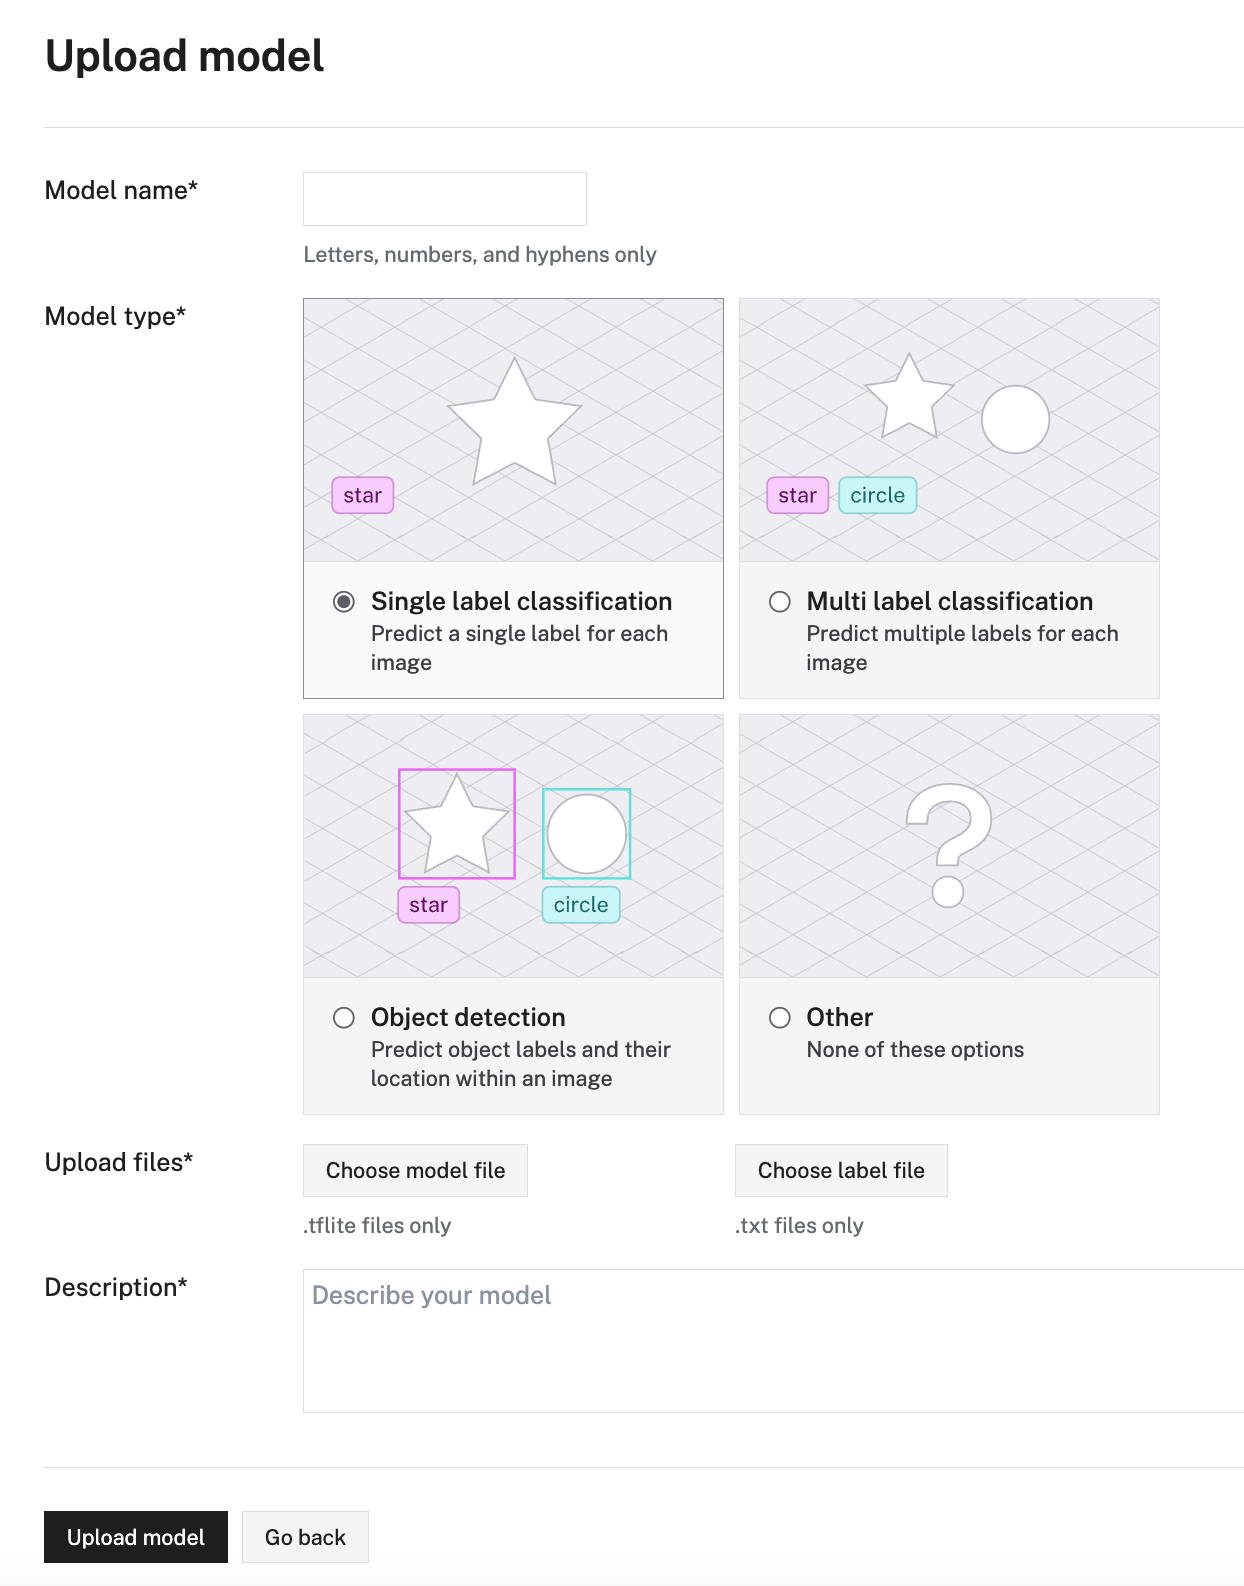
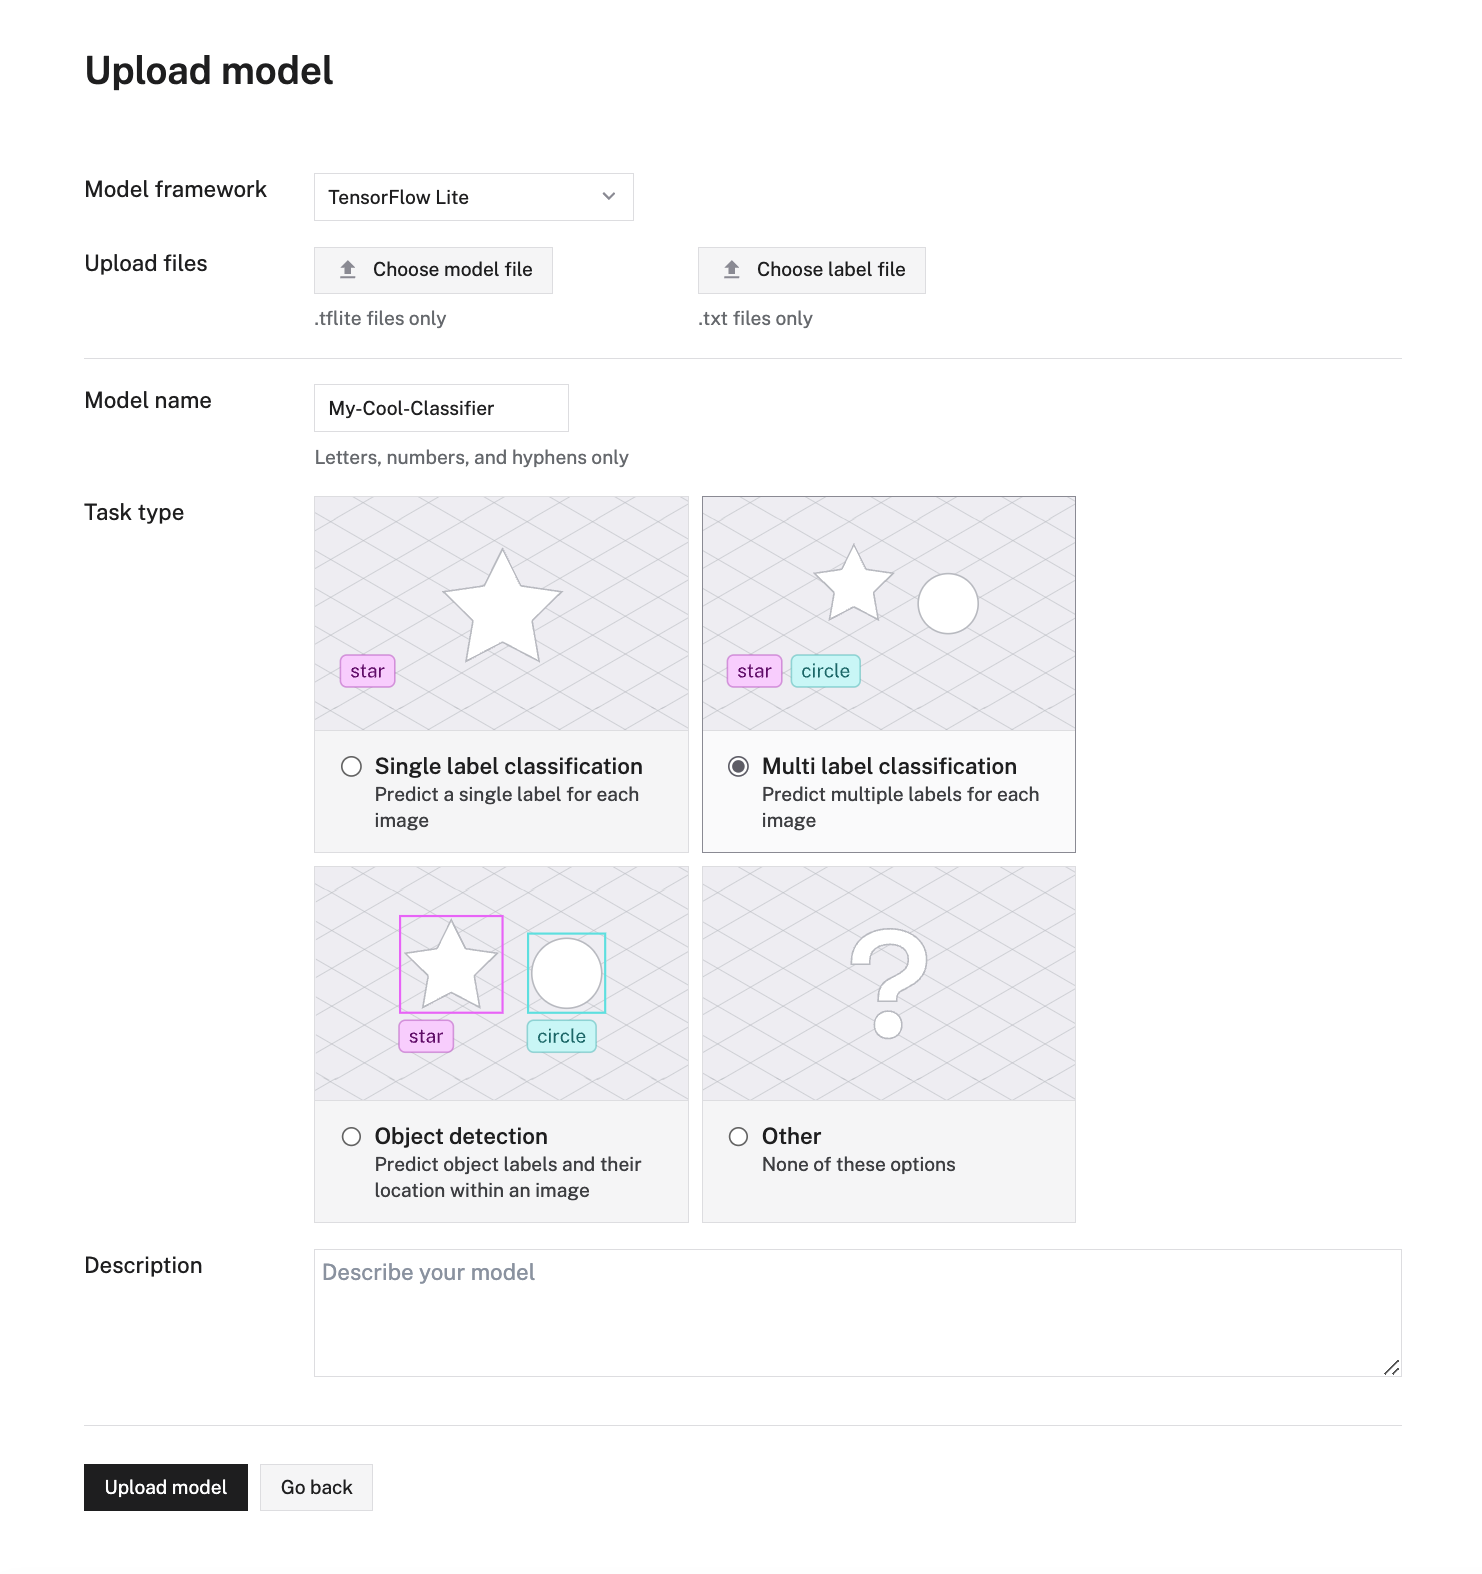
Edit upload page for model framework ui update

diff --git a/docs/ml/upload-model.md b/docs/ml/upload-model.md
@@ -41,11 +41,10 @@ Select **Next steps** to continue.
 
 {{<imgproc src="/ml/upload-model.png" resize="600x" alt="Upload model menu on the DATA tab of the Viam app.">}}
 
-1. Specify a name for the model.
-2. Specify the **Model type**.
-3. Add a `.tflite` model file.
-4. (Optional) Add a `.txt` label file.
-   This should include the label names as you provided them in training, with one name per line.
+1. Select the **Model framework**, or, type of model. TensorFlow Lite, TensorFlow, PyTorch and ONNX model frameworks are currently supported.
+2. Upload the files required for your model framework.
+3. Specify a name for the model.
+4. Specify the **Task type**.
 5. Add a short description.
    This will help other users to understand how to use your model.
 
@@ -53,19 +52,28 @@ Select **Upload model**.
 The model is now visible on the **MODELS** subtab of the **DATA** tab in the [Viam app](https://app.viam.com) and available to [deploy on your machine](/ml/deploy/).
 Also, if you selected **Public**, it should be publicly visible in the [Viam registry](https://app.viam.com/registry).
 
+{{% alert title="TFLite label files" color="tip" %}}
+During Step 2, if you chose a TensorFlow Lite model framework, you add a `.txt` label file.
+This should include the label names as you provided them in training, with one name per line.
+{{% /alert %}}
+
 {{% /tab %}}
 {{% tab name="New version" %}}
 
 {{<imgproc src="/ml/select-existing-model.png" resize="400x" alt="Select from your existing models.">}}
 
 1. Select the model you would like to update from your existing models.
-2. Select **Next steps** to continue.
-3. Add an updated `.tflite` model file.
-4. (Optional) Add an updated `.txt` label file.
-   This should include the label names as you provided them in training, with one name per line.
-5. Click **Upload model**.
+1. Select **Next steps** to continue.
+1. Select the **Model framework**, or, type of model. TensorFlow Lite, TensorFlow, PyTorch and ONNX model frameworks are currently supported.
+1. Upload the files required for your model framework.
+1. Click **Upload model**.
 
 Your model is now updated.
+
+{{% alert title="TFLite label files" color="tip" %}}
+During Step 4, if you chose a TensorFlow Lite model framework, you add a `.txt` label file.
+This should include the label names as you provided them in training, with one name per line.
+{{% /alert %}}
 
 {{% alert title="Note" color="note" %}}
 
